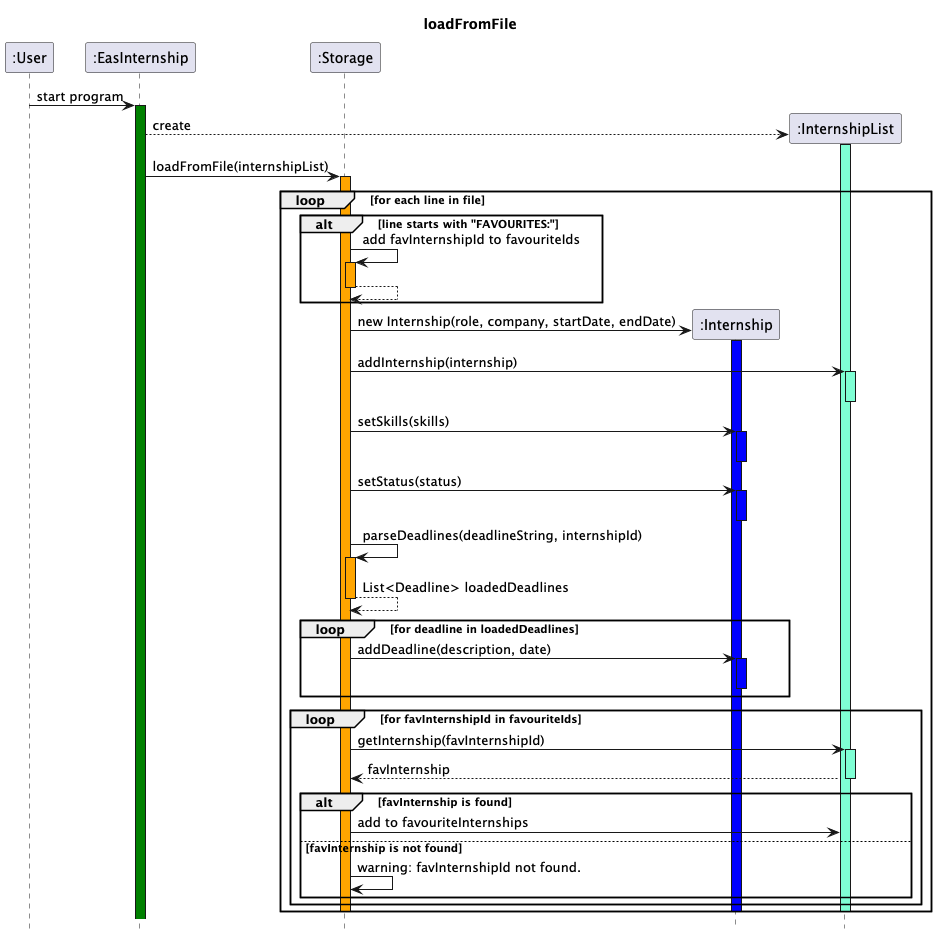
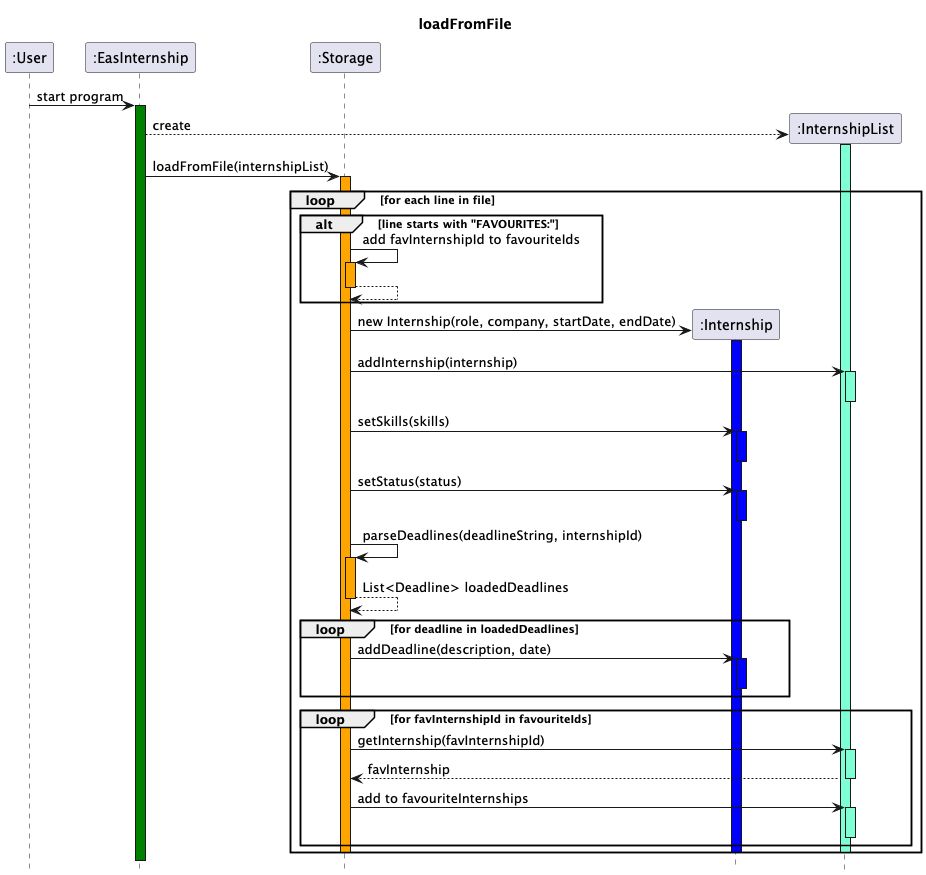
issue 225

diff --git a/src/main/java/seedu/duke/Storage.java b/src/main/java/seedu/duke/Storage.java
@@ -110,9 +110,19 @@ public class Storage {
                     if (!favouritesString.isEmpty()) {
                         String[] parts = favouritesString.split(" ");
                         for (String id : parts) {
-                            int favInternshipId = Integer.parseInt(id);
-                            int favInternshipIndex = favInternshipId - 1;
-                            favouriteIds.add(favInternshipIndex);
+                            try {
+                                int favInternshipId = Integer.parseInt(id.trim());
+
+                                // Ensure the ID is a positive number
+                                if (favInternshipId > 0) {
+                                    int favInternshipIndex = favInternshipId - 1;
+                                    favouriteIds.add(favInternshipIndex);
+                                } else {
+                                    System.out.println("Invalid ID '" + id + "': ID should be a positive integer.");
+                                }
+                            } catch (NumberFormatException e) {
+                                System.out.println("Invalid ID '" + id + "': Not a valid integer.");
+                            }
                         }
                     }
                 } else if (isValidFormat(line)) {
@@ -167,6 +177,8 @@ public class Storage {
                         LOGGER.log(Level.WARNING, "Internship with ID " + favInternshipId + " not found.");
                     }
 
+                } else {
+                    System.out.println("Internship with ID " + favInternshipId + " not found. Not added to Favourites List.");
                 }
             }
             LOGGER.log(Level.INFO, "Data loaded");
